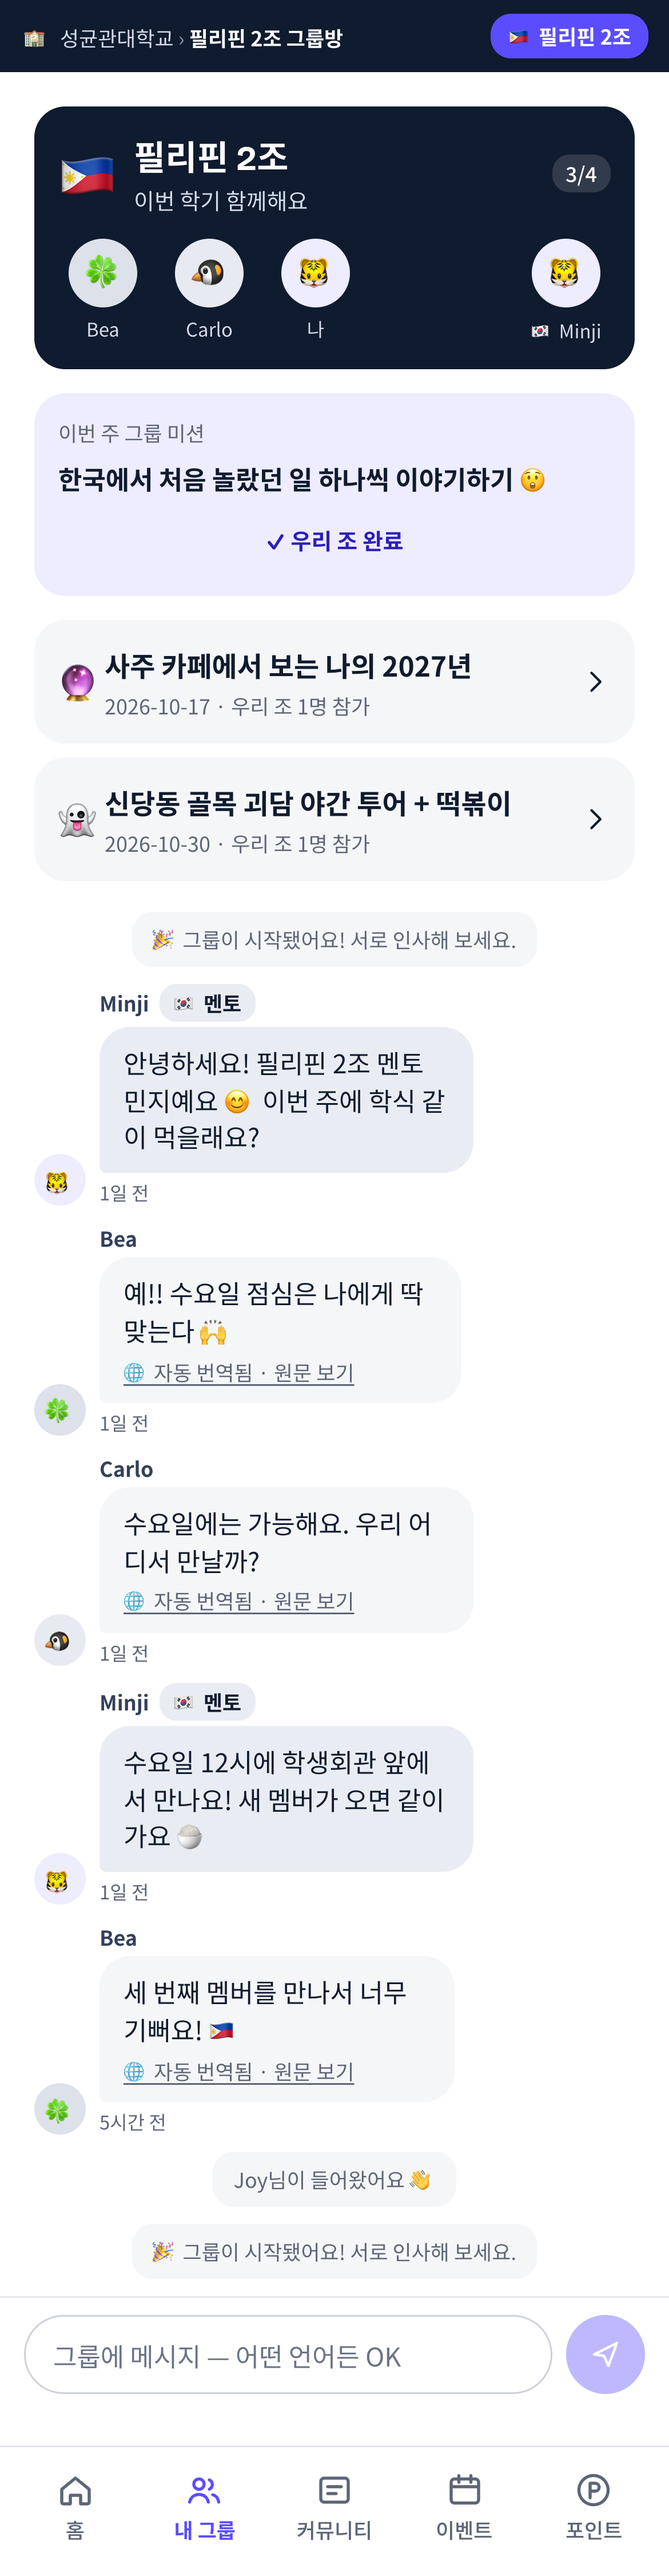
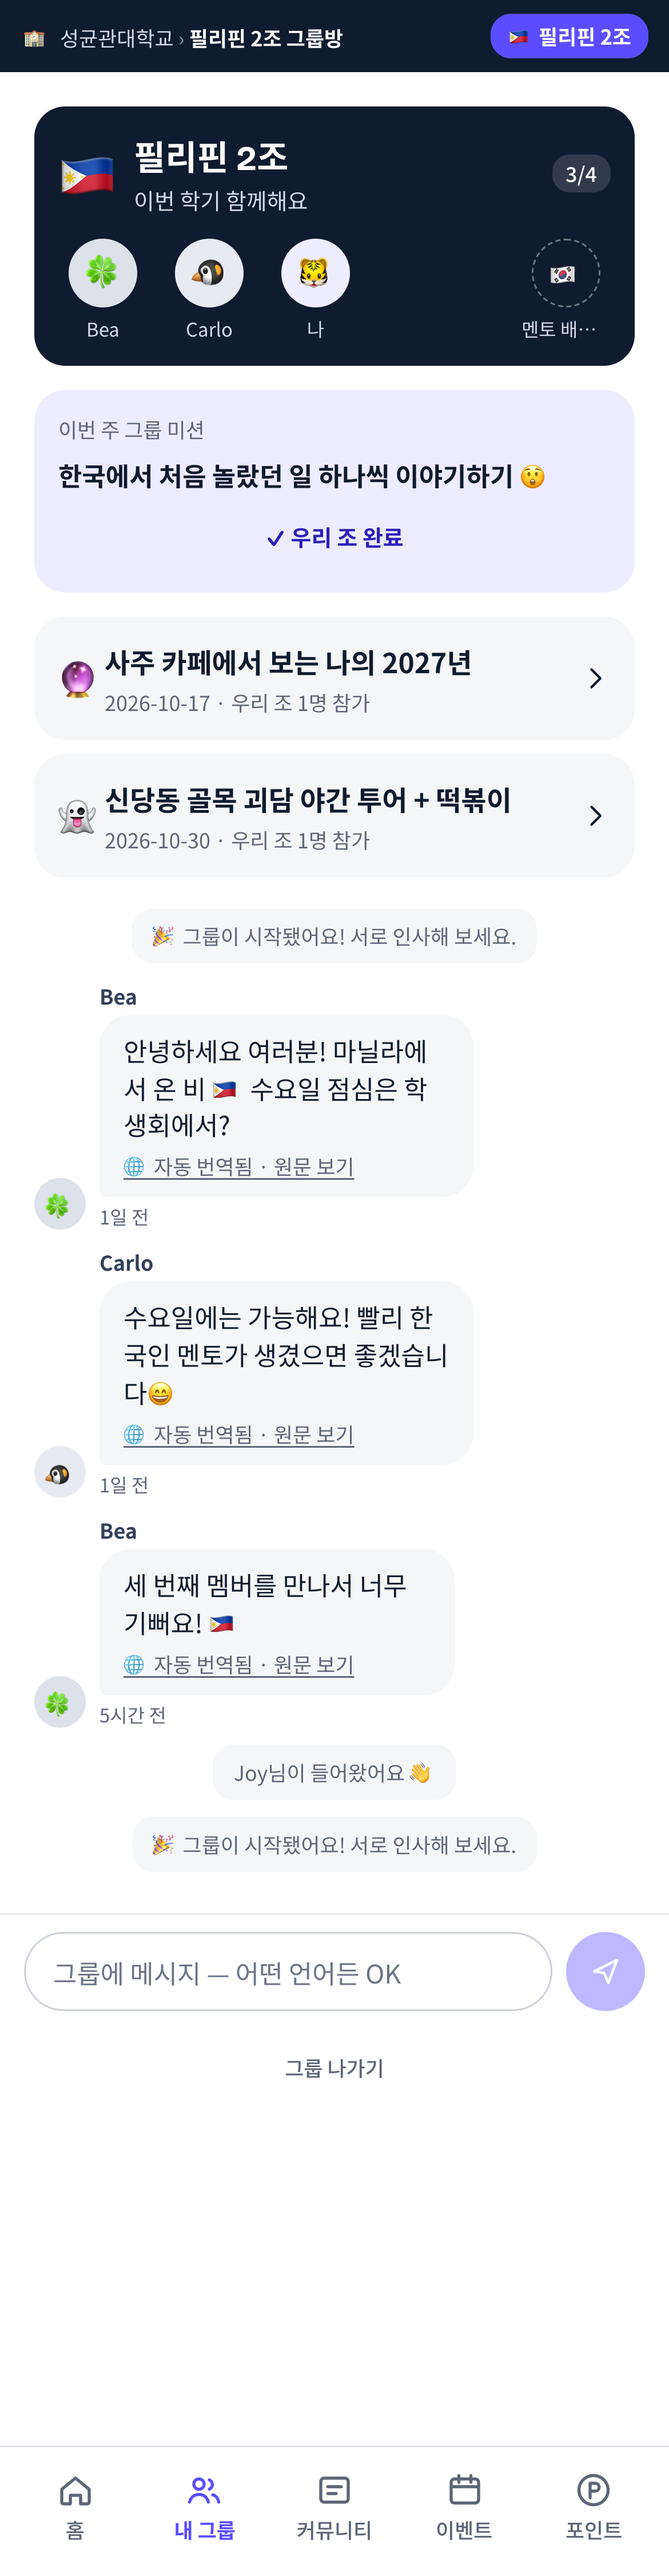
promo: refreshed screens and video for one mentor per group
Re-captured screens (welcome without "no sign-up", Philippines 2 with Seoyeon
as its only mentor), re-rendered the 50s video, and added
refresh-final-shots.py to swap the app screenshots in the final deck.

diff --git a/promo/src/config.js b/promo/src/config.js
@@ -47,7 +47,7 @@ window.AD_CONFIG = {
     { nick: 'Bea', avatar: '🍀', role: '필리핀' },
     { nick: 'Carlo', avatar: '🐧', role: '필리핀' },
     { nick: 'Joy', avatar: '🐯', role: '필리핀 · 나' },
-    { nick: 'Minji', avatar: '🐯', role: '한국인 멘토', mentor: true },
+    { nick: '서연', avatar: '🦊', role: '한국인 멘토 · 🇵🇭 교환 예정', mentor: true },
     { nick: '서연', avatar: '🦊', role: '한국인 멘토', friend: true },
   ],
   mission: '한국에서 처음 놀랐던 일 하나씩 이야기하기',

diff --git a/promo/tools/refresh-final-shots.py b/promo/tools/refresh-final-shots.py
@@ -1,0 +1,78 @@
+# 최종 발표판의 앱 화면 사진을 새로 찍은 화면으로 바꾼다 (글·QR·노트는 그대로).
+#   python3 promo/tools/refresh-final-shots.py <최종 pptx>
+# 2026-10-03: 첫 화면 「가입 없음」 문구 삭제 · 조당 멘토 1명(필리핀 2조 멘토 = 서연)에 맞춘 그룹방·채팅
+import sys
+from pathlib import Path
+
+from PIL import Image, ImageDraw, ImageFilter
+from pptx import Presentation
+from pptx.util import Inches
+
+SRC = sys.argv[1]
+ROOT = Path(__file__).resolve().parent.parent
+SHOTS = ROOT / 'assets/screens'
+FRAMES = ROOT / 'out/frames'
+FRAMES.mkdir(parents=True, exist_ok=True)
+
+
+def framed(name):
+    """build-deck.py 와 같은 폰 테두리 (남색 테두리 + 그림자)"""
+    out = FRAMES / f'{name}.png'
+    im = Image.open(SHOTS / f'{name}.png').convert('RGB')
+    s = 640 / im.width
+    im = im.resize((640, round(im.height * s)), Image.LANCZOS)
+    bez, r_out, pad = 16, 64, 40
+    W, H = im.width + bez * 2, im.height + bez * 2
+    canvas = Image.new('RGBA', (W + pad * 2, H + pad * 2), (0, 0, 0, 0))
+    sh = Image.new('L', canvas.size, 0)
+    ImageDraw.Draw(sh).rounded_rectangle((pad, pad + 14, pad + W, pad + H + 14), r_out, fill=70)
+    sh = sh.filter(ImageFilter.GaussianBlur(18))
+    canvas.paste(Image.new('RGBA', canvas.size, (15, 27, 46, 255)), (0, 0), sh)
+    body = Image.new('RGBA', (W, H), (0, 0, 0, 0))
+    m = Image.new('L', (W, H), 0)
+    ImageDraw.Draw(m).rounded_rectangle((0, 0, W - 1, H - 1), r_out, fill=255)
+    body.paste(Image.new('RGBA', (W, H), (15, 27, 46, 255)), (0, 0), m)
+    m2 = Image.new('L', im.size, 0)
+    ImageDraw.Draw(m2).rounded_rectangle((0, 0, im.width - 1, im.height - 1), r_out - bez, fill=255)
+    body.paste(im, (bez, bez), m2)
+    canvas.alpha_composite(body, (pad, pad))
+    canvas.save(out)
+    return out
+
+
+
+
+def pics_at(slide, left_in, top_in):
+    return [sh for sh in slide.shapes if sh.shape_type == 13 and abs(sh.left - Inches(left_in)) < Inches(0.05) and abs(sh.top - Inches(top_in)) < Inches(0.05)]
+
+
+def swap(slide, left_in, top_in, name):
+    olds = pics_at(slide, left_in, top_in)
+    if not olds:
+        raise SystemExit(f'그림 없음: ({left_in}, {top_in})')
+    top = olds[-1]  # 맨 위에 보이는 그림 자리에 넣고, 겹친 옛 그림은 모두 지운다
+    new = slide.shapes.add_picture(str(framed(name)), top.left, top.top, height=top.height)
+    top._element.addprevious(new._element)
+    for o in olds:
+        o._element.getparent().remove(o._element)
+
+
+prs = Presentation(SRC)
+S = list(prs.slides)
+swap(S[0], 8.55, 0.42, 'a01_welcome')     # 1장 표지 폰
+swap(S[3], 10.25, 0.75, 'a03_group')      # 4장 오른쪽 그룹방
+swap(S[4], 10.25, 0.75, 'b03_group_chat_kr')  # 5장 오른쪽 채팅
+# 3장 「50초로 보는 어울림」: 새 영상의 16.5초 장면 (우리 조 멘토 = 서연)
+import subprocess
+video = ROOT / 'out/어울림_홍보_50초_1080p_사운드.mp4'
+still = FRAMES / 'video_still_16_5.png'
+subprocess.run(['ffmpeg', '-v', 'error', '-y', '-ss', '16.5', '-i', str(video), '-frames:v', '1', str(still)], check=True)
+olds = pics_at(S[2], 0.95, 1.0)
+if olds:
+    o = olds[-1]
+    new = S[2].shapes.add_picture(str(still), o.left, o.top, o.width, o.height)
+    o._element.addprevious(new._element)
+    for x in olds:
+        x._element.getparent().remove(x._element)
+prs.save(SRC)
+print('사진 교체:', SRC)
